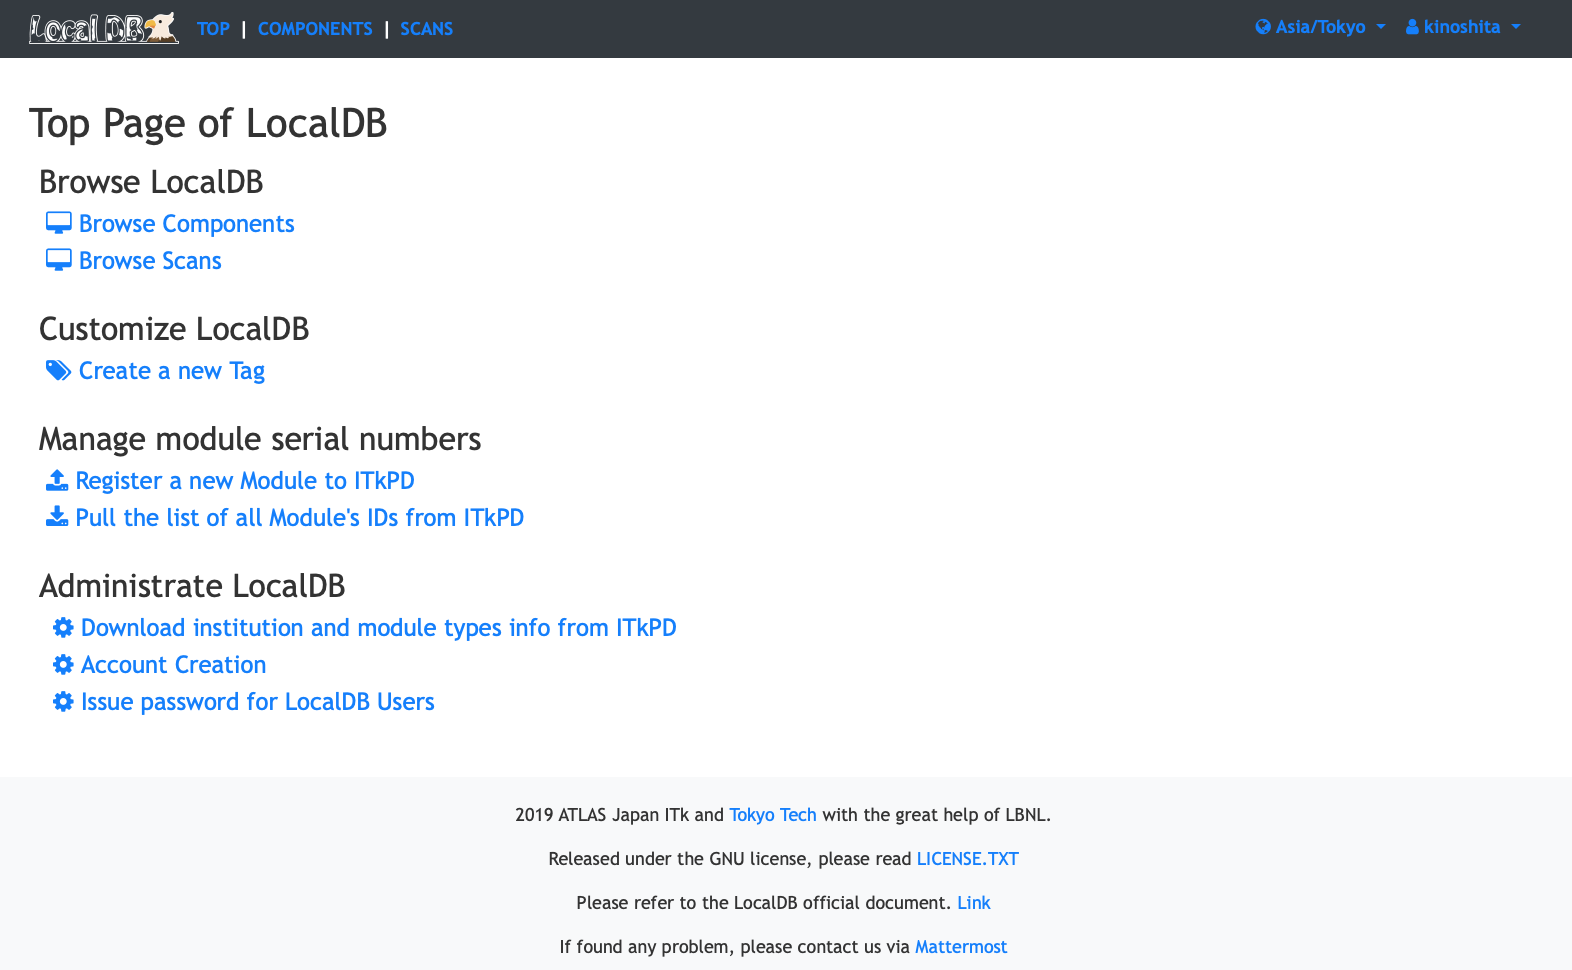
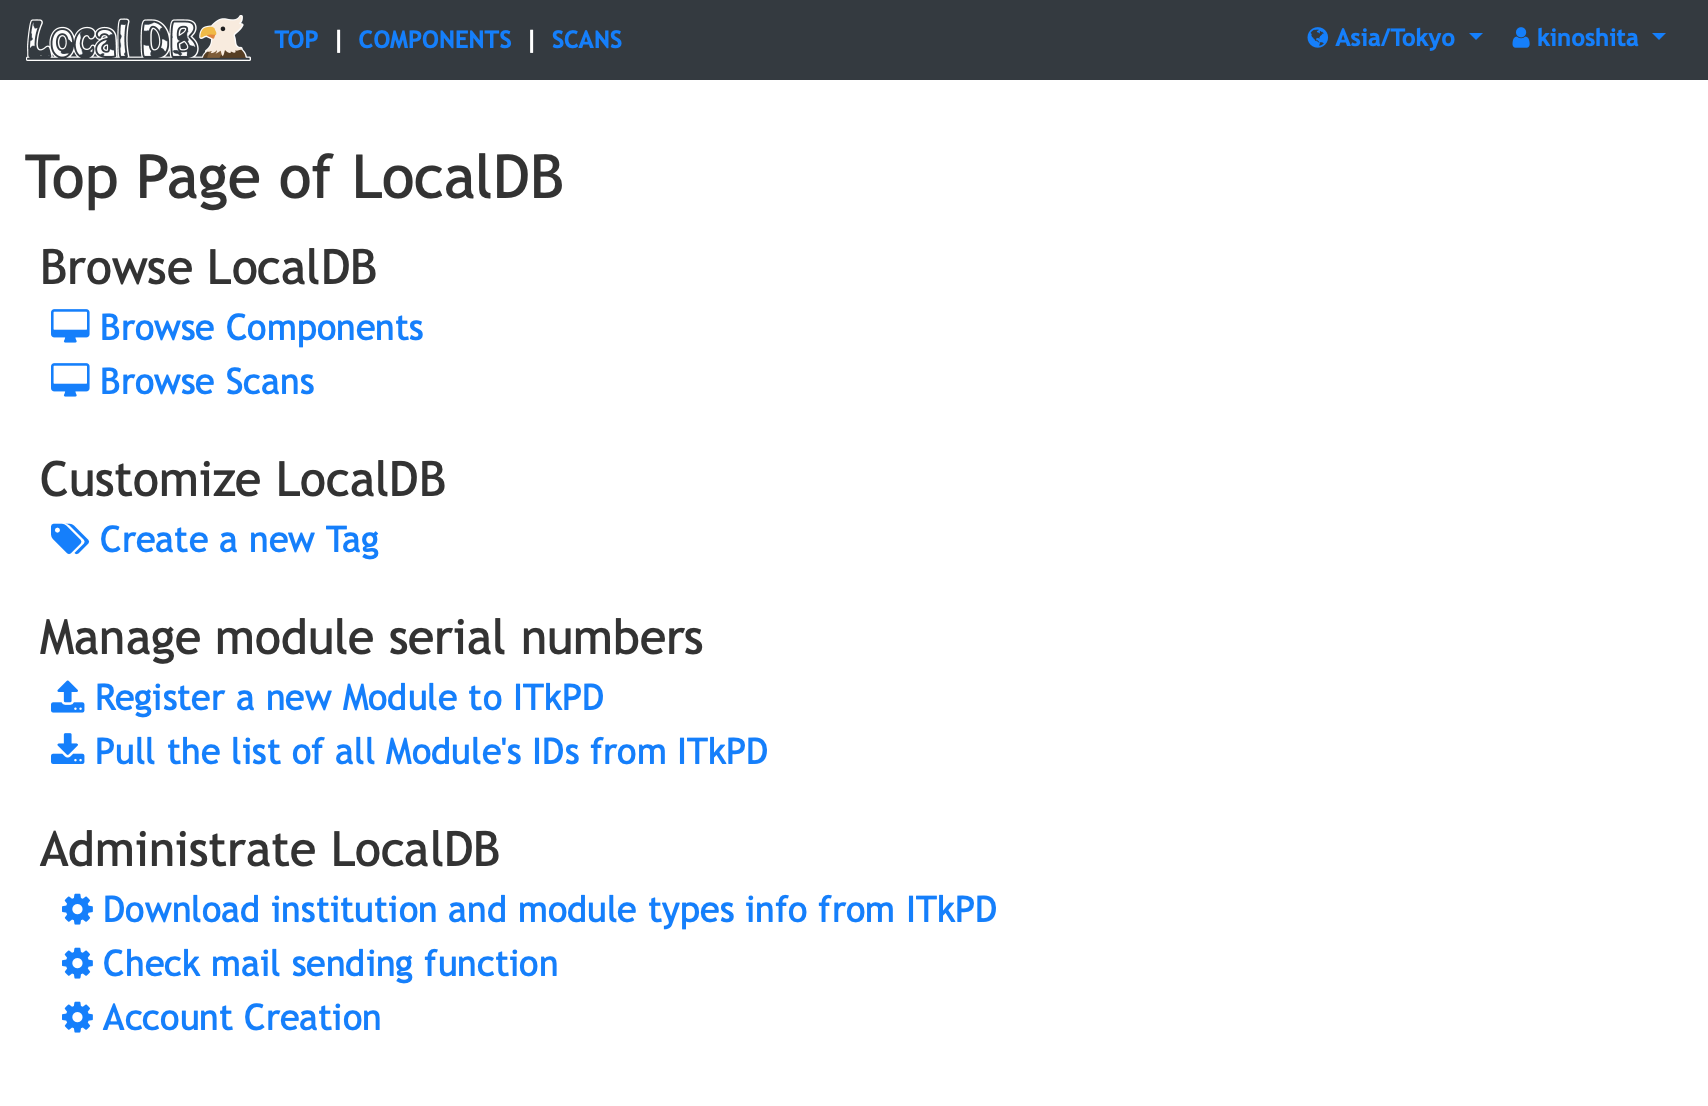
modify admin page

Changed region(s): [[0.0, 0.0, 1.0, 0.9278], [0.3429, 0.9278, 0.6546, 0.9897]]

diff --git a/docs/tool/viewer/admin.md b/docs/tool/viewer/admin.md
@@ -64,7 +64,9 @@ You can use administrator functions in the admin page if you have an account wit
 <br>
 
 !!! Warning
-    If you cannot confirm the received mail, it is possible that the mail function is not available due to some network issue.
+    If you cannot confirm the received mail, it is possible that the mail function is not available due to some network issue. Please edit `viewer/admin_conf.yml` not to use mail function:
+    ![Viewer Admin Mail Function](../../images/viewer/admin_mail_sending_4.png)
+
 
 
 ## Account Creation
@@ -106,4 +108,12 @@ Each user needs a user account to use functions to comment, tag, upload QC scans
 
 <br>
 
-##### 6. The user can sign-in the viewer application according to the instruction written in the e-mali.
+##### 6-a. For admin not using mail sending function:
+###### The user can sign-in the viewer application according to the instruction written in the e-mali. ######
+<br>
+
+##### 6-b For admin not using mail sending function
+|![Viewer Admin Account Creation](../../images/viewer/admin_account_creation_6.png)|
+|:-:|
+
+###### Admin need to tell the username and password for the user and ask the user to set the password. ######
